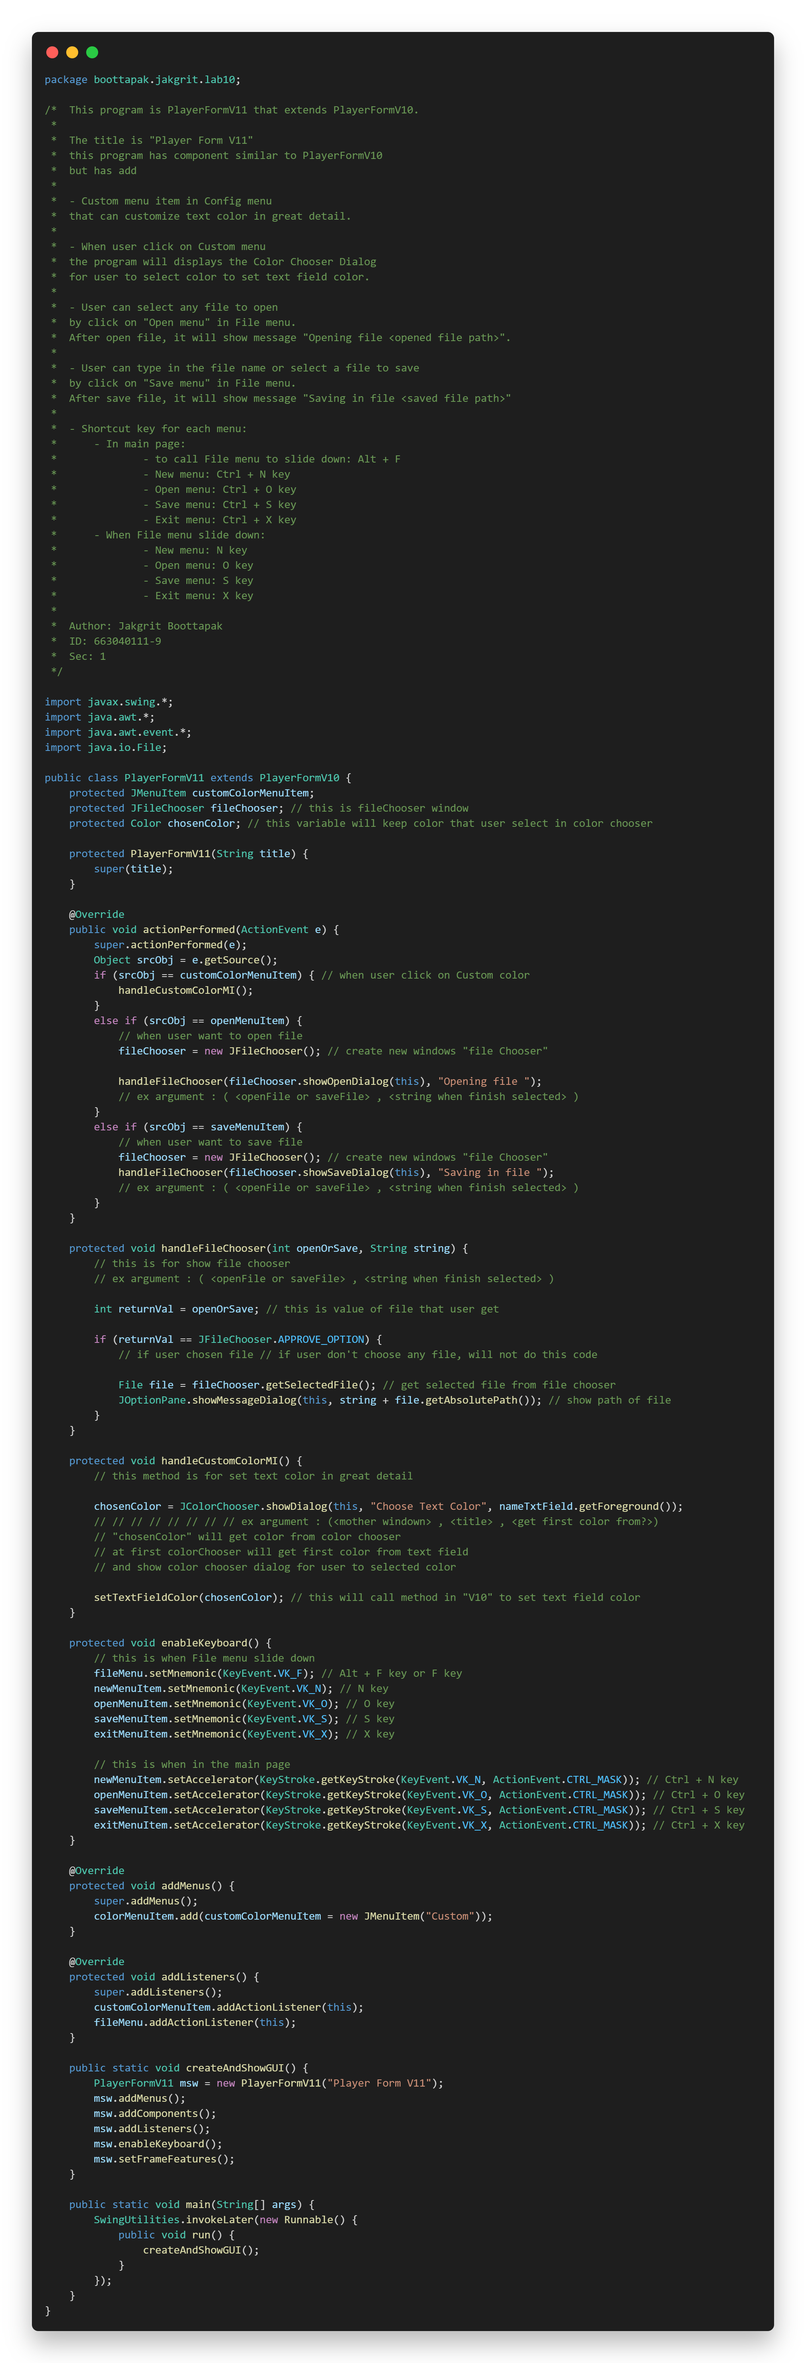
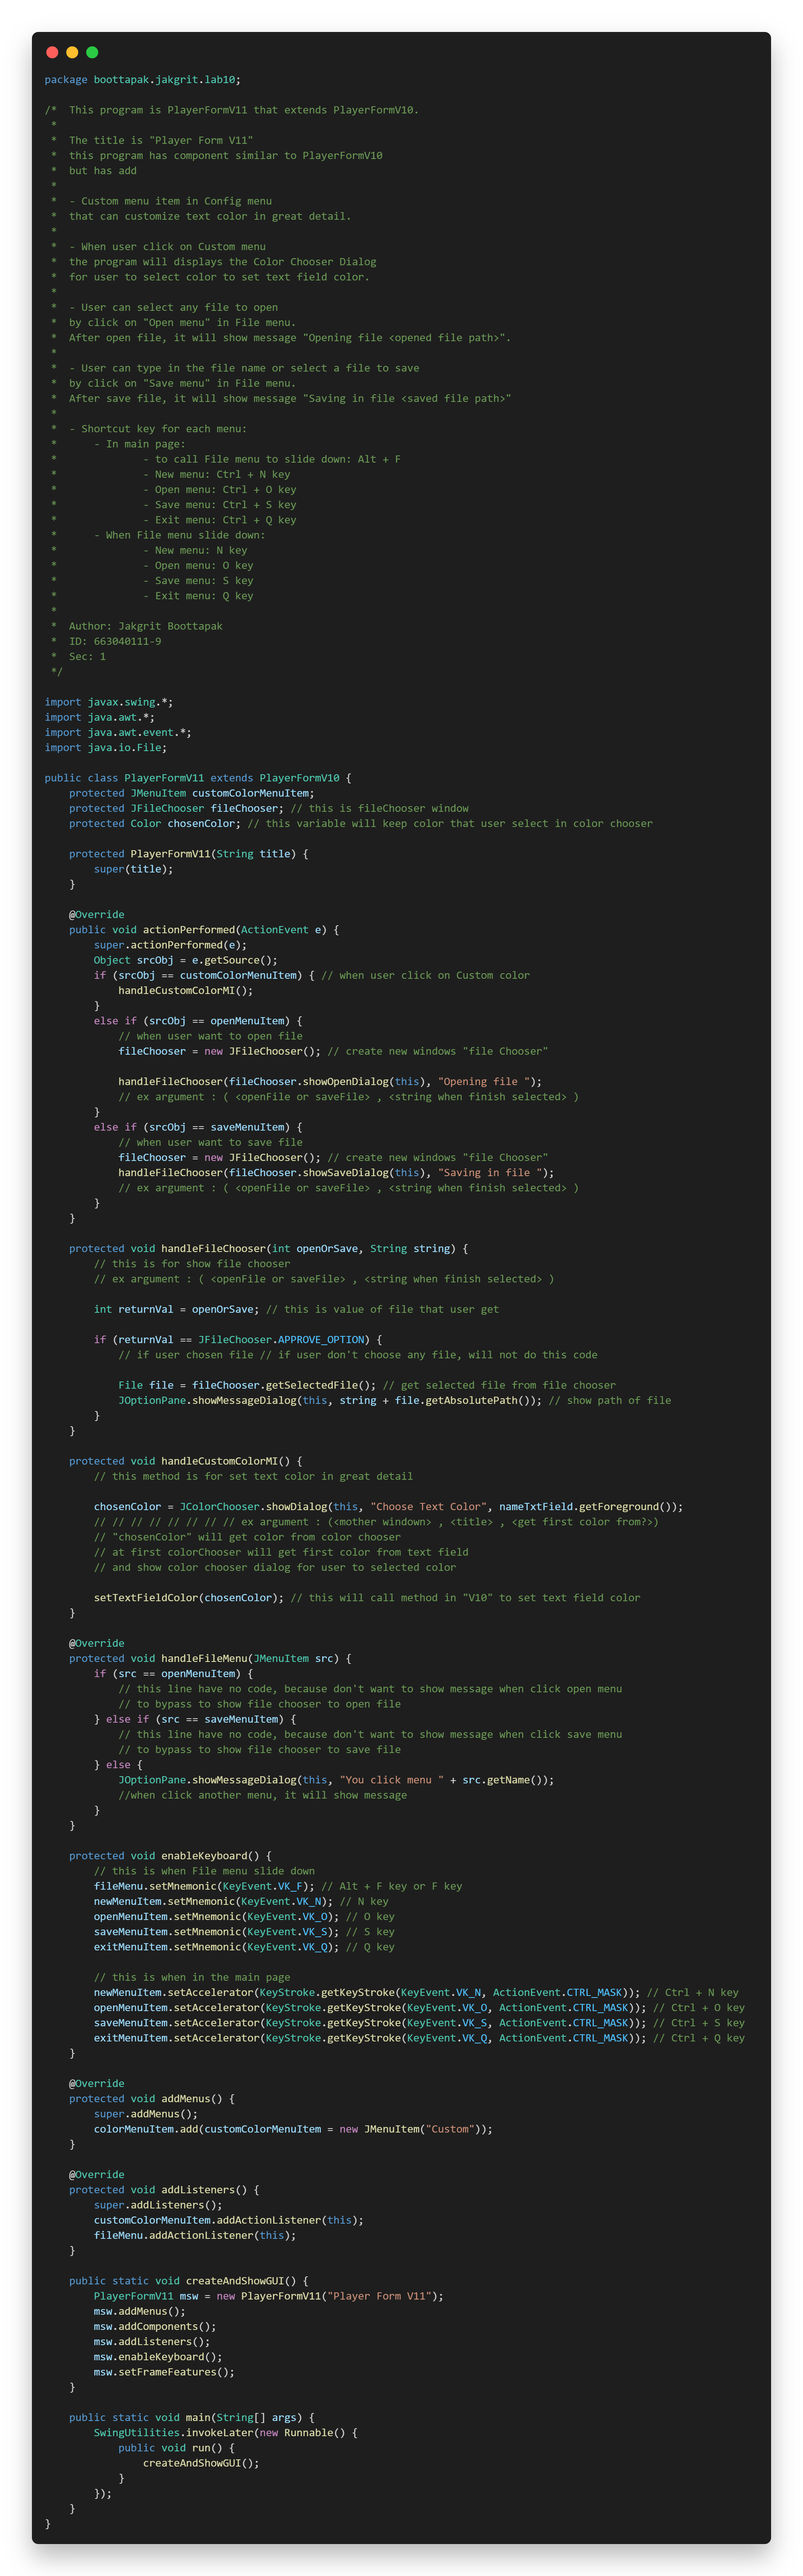
submit lab10 and change exit key to Q

diff --git a/boottapak/jakgrit/lab10/PlayerFormV11.java b/boottapak/jakgrit/lab10/PlayerFormV11.java
@@ -27,12 +27,12 @@ package boottapak.jakgrit.lab10;
  *              - New menu: Ctrl + N key
  *              - Open menu: Ctrl + O key
  *              - Save menu: Ctrl + S key
- *              - Exit menu: Ctrl + X key
+ *              - Exit menu: Ctrl + Q key
  *      - When File menu slide down:
  *              - New menu: N key
  *              - Open menu: O key
  *              - Save menu: S key
- *              - Exit menu: X key
+ *              - Exit menu: Q key
  * 
  *  Author: Jakgrit Boottapak
  *  ID: 663040111-9
@@ -121,13 +121,13 @@ public class PlayerFormV11 extends PlayerFormV10 {
         newMenuItem.setMnemonic(KeyEvent.VK_N); // N key
         openMenuItem.setMnemonic(KeyEvent.VK_O); // O key
         saveMenuItem.setMnemonic(KeyEvent.VK_S); // S key
-        exitMenuItem.setMnemonic(KeyEvent.VK_X); // X key
+        exitMenuItem.setMnemonic(KeyEvent.VK_Q); // Q key
 
         // this is when in the main page
         newMenuItem.setAccelerator(KeyStroke.getKeyStroke(KeyEvent.VK_N, ActionEvent.CTRL_MASK)); // Ctrl + N key
         openMenuItem.setAccelerator(KeyStroke.getKeyStroke(KeyEvent.VK_O, ActionEvent.CTRL_MASK)); // Ctrl + O key
         saveMenuItem.setAccelerator(KeyStroke.getKeyStroke(KeyEvent.VK_S, ActionEvent.CTRL_MASK)); // Ctrl + S key
-        exitMenuItem.setAccelerator(KeyStroke.getKeyStroke(KeyEvent.VK_X, ActionEvent.CTRL_MASK)); // Ctrl + X key
+        exitMenuItem.setAccelerator(KeyStroke.getKeyStroke(KeyEvent.VK_Q, ActionEvent.CTRL_MASK)); // Ctrl + Q key
     }
 
     @Override
